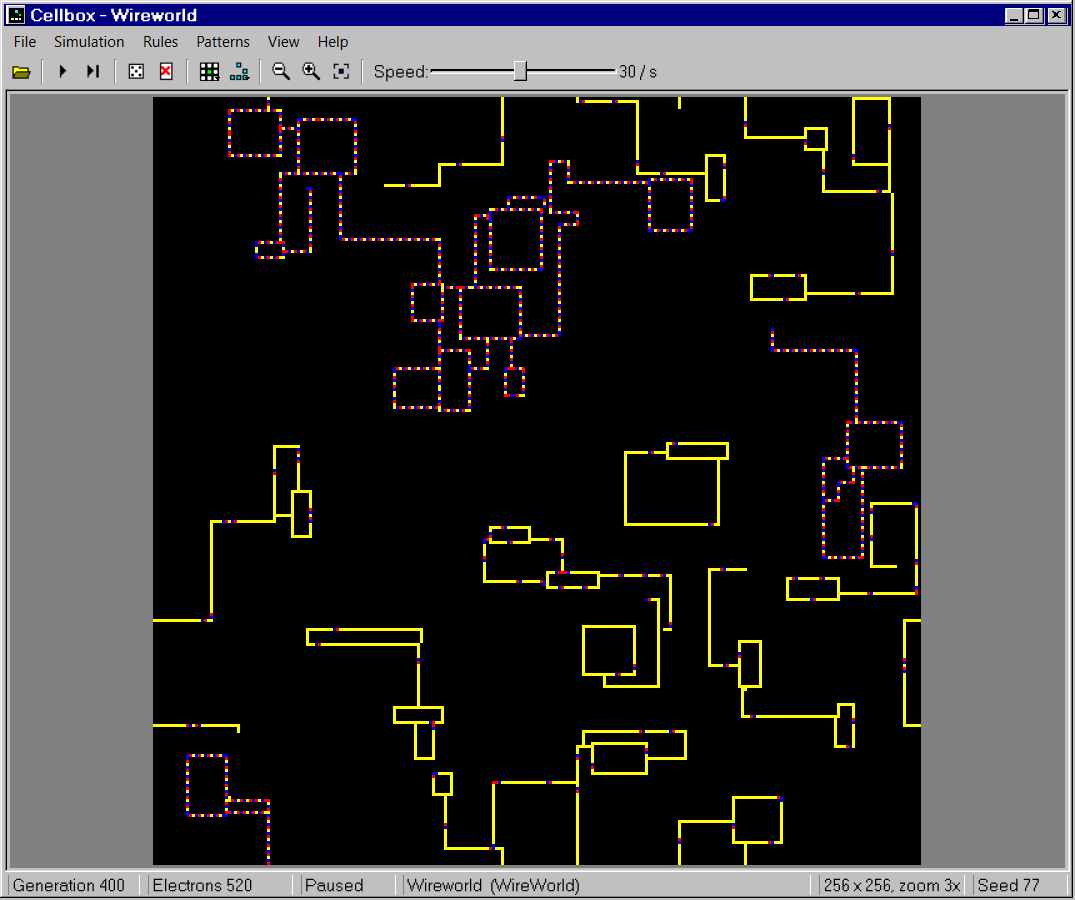
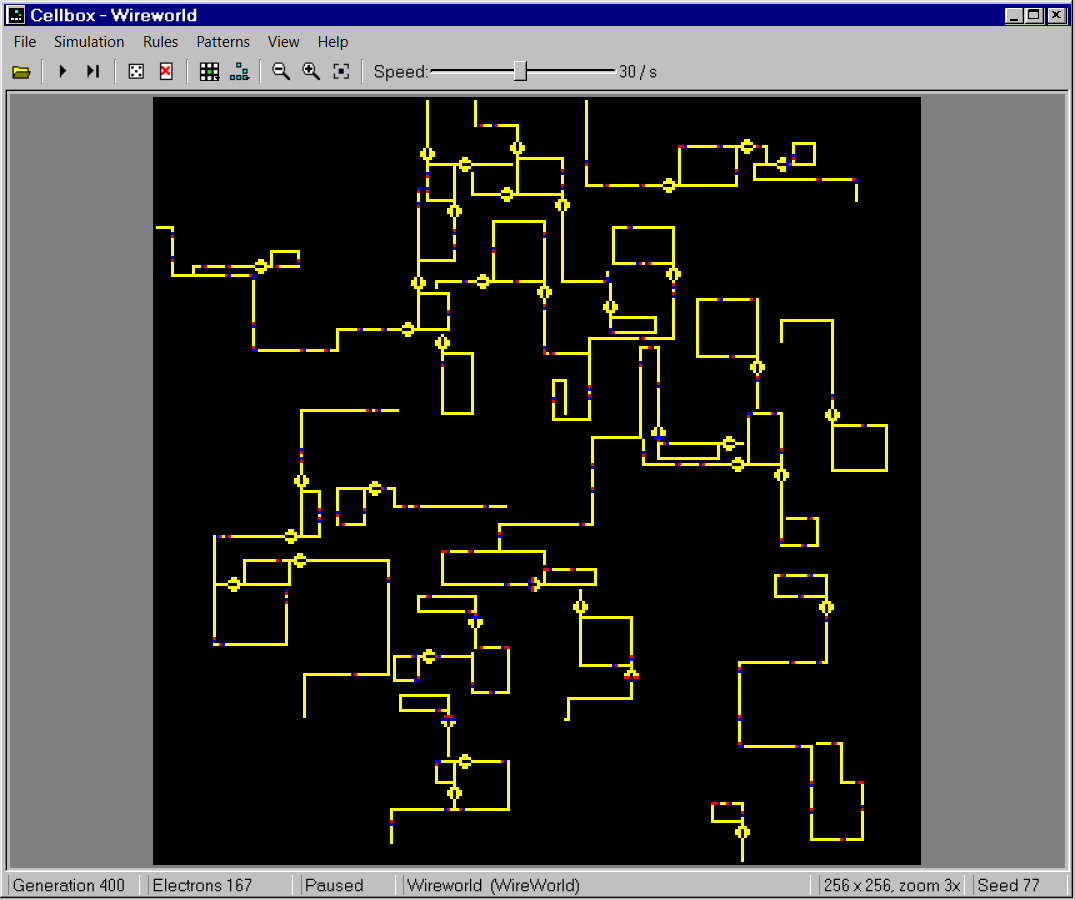
Random circuits that never fill up: diodes on every loop output
A T-junction sends a copy of each electron back the way it came, so random
boards filled their loops until every wire hummed. Wires now leave loops
through a diode, from the corner the electrons come into, stop short of
loops and diodes, and form trees. The diode is a new brute-force find that
holds against counter-flow at any period and phase; the library's diode
demo uses it too.

diff --git a/cellbox/circuits.py b/cellbox/circuits.py
@@ -1,6 +1,14 @@
 """Random Wireworld circuits for a reseed: clock loops with electrons in them, and wires that wander off
-the loops, turn, and join other wires. Electrons leave every loop through its wires, meet at the
-junctions and either merge, cancel or feed new loops, so the board keeps flickering.
+the loops, turn, and run into other wires. Electrons leave every loop through its wires, spread at the
+junctions, and meet head-on and cancel out, so the board keeps flickering.
+
+Two things keep it from filling up with electrons until every wire just hums:
+
+- Every wire leaves its loop through a diode, from a corner, carrying one side of the loop straight on.
+  A T-junction sends a copy of each electron back the way it came; without the diode those copies would
+  get into the loop, which keeps them for ever and fills up.
+- A wire stops short of other loops and diodes instead of joining them, for the same reason, and it never joins a
+  network it is already part of: the wires form trees, and an electron has no cycle to run round in.
 
 Wires never run alongside each other: a wire that comes next to another one joins it and ends there,
 which keeps every wire one cell thick (thick wires short-circuit into noise).
@@ -13,8 +21,14 @@ from cellbox.rules import Wireworld
 EMPTY, HEAD, TAIL, WIRE = Wireworld.EMPTY, Wireworld.HEAD, Wireworld.TAIL, Wireworld.WIRE
 
 LOOP_SIDE = (6, 22)        # loop width and height, cells
-LOOP_AREA = 2400           # field cells per loop at density 1 / 0.3 ... roughly
-DIRS = ((0, 1), (1, 0), (0, -1), (-1, 0))
+LOOP_AREA = 800            # field cells per loop at density 1
+
+# The diode (found by brute-force search, see tools/make_circuits.py; it holds against electrons coming
+# back at any period and phase) along a wire heading in direction d, as (steps along d from the loop
+# corner, steps to the side). The wire itself is empty for steps 3 to 5.
+DIODE_CELLS = ((1, 0), (2, 0), (6, 0)) + tuple((s, k) for s in (2, 3, 4, 5) for k in (-1, 1))     + tuple((s, k) for s in (3, 4) for k in (-2, 2))
+DIODE_GAP = ((3, 0), (4, 0), (5, 0))
+DIODE_LENGTH = 6
 
 
 def _ring(y: int, x: int, h: int, w: int) -> list[tuple[int, int]]:
@@ -26,8 +40,8 @@ def _ring(y: int, x: int, h: int, w: int) -> list[tuple[int, int]]:
     return cells
 
 
-def _neighbors(y: int, x: int, n: int) -> list[tuple[int, int]]:
-    return [((y + dy) % n, (x + dx) % n) for dy in (-1, 0, 1) for dx in (-1, 0, 1) if dy or dx]
+def _neighbors(y: int, x: int) -> list[tuple[int, int]]:
+    return [(y + dy, x + dx) for dy in (-1, 0, 1) for dx in (-1, 0, 1) if dy or dx]
 
 
 def generate(n: int, density: float, spot: bool, rng: np.random.Generator) -> np.ndarray:
@@ -37,25 +51,24 @@ def generate(n: int, density: float, spot: bool, rng: np.random.Generator) -> np
         lo, hi = (n - side) // 2, (n + side) // 2
     else:
         lo, hi = 0, n
-    area = (hi - lo) ** 2
-    loops = max(1, round(density * area / LOOP_AREA * 3))
+    loops = max(1, round(density * (hi - lo) ** 2 / LOOP_AREA))
 
     rings: list[list[tuple[int, int]]] = []
     for _ in range(loops * 20):
         if len(rings) >= loops:
             break
-        h, w = rng.integers(*LOOP_SIDE, size=2)
-        if hi - lo <= max(h, w) + 4:
+        h, w = (int(v) for v in rng.integers(*LOOP_SIDE, size=2))
+        if hi - lo <= max(h, w) + 2 * DIODE_LENGTH:
             continue
-        y, x = rng.integers(lo, hi - h), rng.integers(lo, hi - w)
-        if grid[max(0, y - 3):y + h + 3, max(0, x - 3):x + w + 3].any():
+        y = int(rng.integers(lo + DIODE_LENGTH, hi - h - DIODE_LENGTH))
+        x = int(rng.integers(lo + DIODE_LENGTH, hi - w - DIODE_LENGTH))
+        if grid[y - 4:y + h + 4, x - 4:x + w + 4].any():
             continue   # keep loops apart
-        ring = _ring(int(y), int(x), int(h), int(w))
-        for cy, cx in ring:
-            grid[cy, cx] = WIRE
+        ring = _ring(y, x, h, w)
+        for c in ring:
+            grid[c] = WIRE
         # an electron must not sit on a corner, or a second one sets off the other way round
-        corners = {(int(y), int(x)), (int(y), int(x + w - 1)), (int(y + h - 1), int(x)),
-                   (int(y + h - 1), int(x + w - 1))}
+        corners = {(y, x), (y, x + w - 1), (y + h - 1, x), (y + h - 1, x + w - 1)}
         spots = [i for i in range(len(ring)) if ring[i] not in corners and ring[i - 1] not in corners]
         electrons = int(rng.integers(1, 4))
         for k in range(electrons):
@@ -64,32 +77,64 @@ def generate(n: int, density: float, spot: bool, rng: np.random.Generator) -> np
             grid[ring[i - 1]] = TAIL
         rings.append(ring)
 
+    loop_cells = {c for ring in rings for c in ring}
+    nets = Networks(n)
     for ring in rings:
         for _ in range(rng.integers(1, 4)):
-            _wander(grid, ring, rng, lo, hi)
+            _wander(grid, ring, loop_cells, nets, rng, lo, hi)
     return grid
 
 
-def _wander(grid: np.ndarray, ring: list[tuple[int, int]], rng: np.random.Generator, lo: int, hi: int) -> None:
-    """A wire from a point on the loop outwards, turning now and then, until it joins something or ends."""
-    n = grid.shape[0]
+class Networks:
+    """Which wire cells are connected (union-find over wires; loops are not part of any)."""
+
+    def __init__(self, n: int):
+        self.cell = np.full((n, n), -1, dtype=np.int64)
+        self.parent: list[int] = []
+
+    def new(self) -> int:
+        self.parent.append(len(self.parent))
+        return self.parent[-1]
+
+    def root(self, net: int) -> int:
+        while self.parent[net] != net:
+            self.parent[net] = self.parent[self.parent[net]]
+            net = self.parent[net]
+        return net
+
+    def join(self, a: int, b: int) -> None:
+        self.parent[self.root(a)] = self.root(b)
+
+
+def _wander(grid: np.ndarray, ring: list[tuple[int, int]], loop_cells: set, nets: Networks,
+            rng: np.random.Generator, lo: int, hi: int) -> None:
+    """A wire out of a loop corner through a diode, turning now and then, until it joins a wire or ends."""
     ys = [c[0] for c in ring]
     xs = [c[1] for c in ring]
     top, bottom, left, right = min(ys), max(ys), min(xs), max(xs)
-    # start in the middle of a side, never at a corner, heading straight out
-    side = rng.integers(4)
-    if side == 0:
-        start, d = (top, int(rng.integers(left + 1, right))), (-1, 0)
-    elif side == 1:
-        start, d = (int(rng.integers(top + 1, bottom)), right), (0, 1)
-    elif side == 2:
-        start, d = (bottom, int(rng.integers(left + 1, right))), (1, 0)
-    else:
-        start, d = (int(rng.integers(top + 1, bottom)), left), (0, -1)
-    if grid[start] != WIRE:
-        return   # an electron sits there right now; skip this branch
-    near_loop = set(_neighbors(*start, n)) | {start}
-    prev = start
+    # electrons run clockwise, so the wire carries on the way they come into the corner; one that carried
+    # on the other side would touch the cell they turn into and send copies back into the loop
+    corner, d = (((top, left), (-1, 0)), ((top, right), (0, 1)), ((bottom, right), (1, 0)),
+                 ((bottom, left), (0, -1)))[rng.integers(4)]
+    dy, dx = d
+    py, px = dx, dy   # sideways
+    cells = [(corner[0] + s * dy + k * py, corner[1] + s * dx + k * px) for s, k in DIODE_CELLS]
+    gap = [(corner[0] + s * dy, corner[1] + s * dx) for s, _ in DIODE_GAP]
+    exit_cell = cells[2]
+    footprint = set(cells + gap)
+    around = {nb for c in footprint for nb in _neighbors(*c)} - footprint - set(_neighbors(*corner)) - {corner}
+    if any(not (lo <= y < hi and lo <= x < hi) for y, x in footprint | around | {corner}):
+        return
+    if any(grid[c] != EMPTY for c in footprint | around):
+        return   # no room for the diode here
+    net = nets.new()
+    for c in cells:
+        grid[c] = WIRE
+        nets.cell[c] = net
+    loop_cells.update(c for c in cells if c != exit_cell)   # a wire joining the diode would get round it
+
+    prev = exit_cell
+    near = footprint   # the diode's own cells do not count as another wire
     length = int(rng.integers(30, 220))
     run = int(rng.integers(4, 30))
     for _ in range(length):
@@ -97,16 +142,22 @@ def _wander(grid: np.ndarray, ring: list[tuple[int, int]], rng: np.random.Genera
             dy, dx = d
             d = (dx, -dy) if rng.random() < 0.5 else (-dx, dy)
             run = int(rng.integers(4, 40))
-        cell = ((prev[0] + d[0]) % n, (prev[1] + d[1]) % n)
-        if not (lo <= cell[0] < hi and lo <= cell[1] < hi):
-            return
-        if grid[cell] != EMPTY:
-            return   # ran into a wire: joined
-        allowed = set(_neighbors(*prev, n)) | {prev} | near_loop
-        touching = any(grid[c] != EMPTY and c not in allowed for c in _neighbors(*cell, n))
+        cell = (prev[0] + d[0], prev[1] + d[1])
+        if not (lo < cell[0] < hi - 1 and lo < cell[1] < hi - 1) or grid[cell] != EMPTY:
+            return   # the edge (one cell in, so neighbors stay on the grid) or a wire
+        allowed = set(_neighbors(*prev)) | {prev} | near
+        touched = [c for c in _neighbors(*cell) if grid[c] != EMPTY and c not in allowed]
+        if any(c in loop_cells for c in touched):
+            return   # stop short of a loop: joining it would feed it electrons
+        others = {nets.root(int(nets.cell[c])) for c in touched}
+        if nets.root(net) in others:
+            return   # stop short of its own network: that would close a cycle
         grid[cell] = WIRE
-        if touching:
+        nets.cell[cell] = net
+        if touched:
+            for other in others:
+                nets.join(other, net)
             return   # came next to another wire: this cell joins them
-        near_loop = set()
+        near = set()
         prev = cell
         run -= 1

diff --git a/tools/make_circuits.py b/tools/make_circuits.py
@@ -28,7 +28,8 @@ OUT = ROOT / "assets" / "patterns" / "3 Wireworld"
 EMPTY, HEAD, TAIL, WIRE = 0, 1, 2, 3
 
 # Shapes as rows relative to an anchor row, columns from the anchor column; '#' is wire.
-DIODE = {-1: ".###", 0: "##", 1: ".###"}          # wire in from the left up to the anchor, out from +4
+DIODE = {-2: ".##", -1: "####", 0: "#", 1: "####", 2: ".##"}   # wire in from the left up to the anchor,
+                                                                # out from +4
 OR_GATE = {-2: "#", -1: ".#.##", 0: "###", 1: ".#.##", 2: "#"}               # inputs end one left of
 XOR_GATE = {-3: "##", -2: "..#", -1: ".####", 0: ".#..#", 1: ".####", 2: "..#", 3: "##"}   # the anchor
 
@@ -100,16 +101,16 @@ def clocks() -> tuple[Board, bool]:
 
 
 def diodes() -> tuple[Board, bool]:
-    b = Board(16, 50)
-    b.clock(2, 1, 4, 5)
-    b.path((2, 6), (2, 20))
-    b.shape(DIODE, 2, 20)
-    b.path((2, 24), (2, 46))
+    b = Board(18, 50)
+    b.clock(3, 1, 4, 5)
+    b.path((3, 6), (3, 20))
+    b.shape(DIODE, 3, 20)
+    b.path((3, 24), (3, 46))
     b.clock(11, 1, 4, 5)
-    b.path((11, 6), (11, 20))
+    b.path((11, 6), (11, 19))
     b.shape(DIODE, 11, 20, mirrored=True)
     b.path((11, 24), (11, 46))
-    before, through, blocked = heads(b, [(2, 15), (2, 40), (11, 40)])
+    before, through, blocked = heads(b, [(3, 15), (3, 40), (11, 40)])
     ok = len(through) > 0 and set(np.diff(before[2:]).tolist()) == set(np.diff(through[2:]).tolist()) \
         and abs(len(before) - len(through)) <= 2 and not blocked
     print(f"diode: {len(before)} in, {len(through)} through, {len(blocked)} through the turned one")

diff --git a/tests/test_families.py b/tests/test_families.py
@@ -77,7 +77,17 @@ def test_random_circuits_are_repeatable_and_keep_wires_thin():
     assert np.array_equal(a, b)
     filled = a != 0
     blocks = filled[:-1, :-1] & filled[1:, :-1] & filled[:-1, 1:] & filled[1:, 1:]
-    assert blocks.sum() < 0.01 * filled.sum()   # wires do not run side by side (joins can make a few)
+    assert blocks.sum() < 0.03 * filled.sum()   # wires do not run side by side (each diode has two blocks)
+
+
+@pytest.mark.parametrize("seed", [0, 1, 2])
+def test_random_circuits_never_fill_up(seed):
+    """Diodes keep electrons that come back from junctions out of the loops: without them every wire
+    ends up humming with an electron every third cell."""
+    field = Field(256, Wireworld())
+    field.seed(1.0, spot=False, seed=seed)
+    field.step(2000)
+    assert 0 < field.population < 0.12 * (field.state != 0).sum()
 
 
 def test_spot_circuit_stays_in_the_middle():
